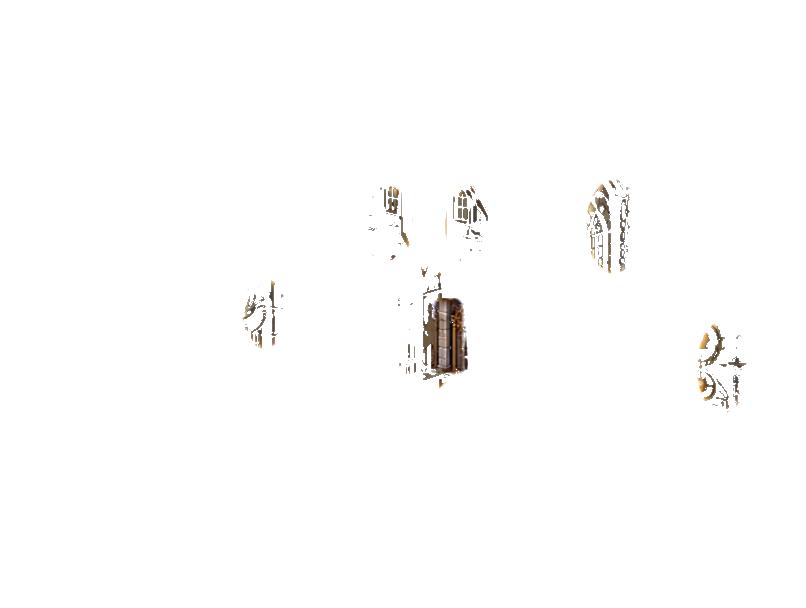
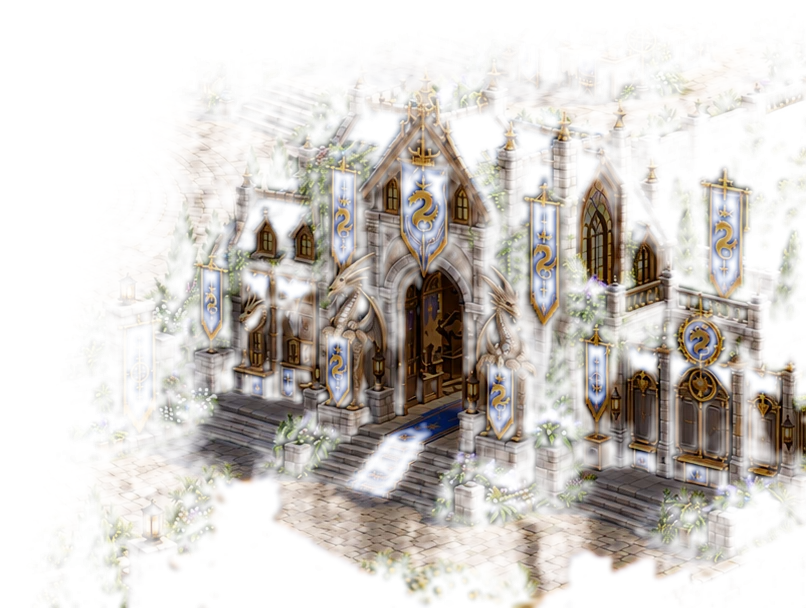
hotfix(refuge): rollback corrupted vacancy art and disable day/auto (v0.0.140)
* revert(town): restore all eight untouched pre-v0.0.139 vacancy files

* hotfix(town): force night-only, ignore saved day mode, retain v0.0.138 art (0.0.140)

diff --git a/src/Wyrmforge.Presentation.Web/wwwroot/index.html b/src/Wyrmforge.Presentation.Web/wwwroot/index.html
@@ -30,7 +30,6 @@
     <script src="js/audio.js?v=__WYRMFORGE_BUILD__"></script>
     <script src="js/arcane-web.js"></script>
     <script src="js/refuge-town.js?v=__WYRMFORGE_BUILD__"></script>
-    <script src="js/town-lighting.js?v=__WYRMFORGE_BUILD__"></script>
     <script src="js/playtest.js?v=__WYRMFORGE_BUILD__"></script>
     <script src="_framework/blazor.webassembly.js?v=__WYRMFORGE_BUILD__" autostart="false"></script>
     <script>

diff --git a/tests/Wyrmforge.Browser.Tests/WyrmforgeBrowserTests.cs b/tests/Wyrmforge.Browser.Tests/WyrmforgeBrowserTests.cs
@@ -12,49 +12,28 @@ public sealed class WyrmforgeBrowserTests : PageTest
     private string ArtifactDirectory => Environment.GetEnvironmentVariable("WYRMFORGE_BROWSER_ARTIFACTS") ?? Path.Combine(Path.GetTempPath(), "wyrmforge-browser");
 
     [TestMethod]
-    public async Task TownLighting_SettingsOverrideChangesSceneWithoutAffectingBuildingStates()
+    public async Task Refuge_NightOnly_IgnoresPriorDayPreferenceAndPreservesBuildingStates()
     {
         await Page.SetViewportSizeAsync(390, 844);
+        await Page.AddInitScriptAsync("localStorage.setItem('wyrmforge.townLighting.v1', 'day');");
         await OpenAsync();
-        await Expect(Page.Locator(".refuge-canonical-scene")).ToBeVisibleAsync();
-        var initialStates = await Page.Locator(".refuge-town-spot[data-town-building]").EvaluateAllAsync<string>(
-            "buttons => [...buttons].map(button => button.dataset.townState).join(',')");
-
-        await Page.GetByRole(AriaRole.Button, new() { Name = "More options" }).ClickAsync();
-        var controls = Page.GetByRole(AriaRole.Group, new() { Name = "Town lighting preference" });
-        await Expect(controls).ToBeVisibleAsync();
-        await controls.GetByRole(AriaRole.Button, new() { Name = "Day", Exact = true }).ClickAsync();
-        await Expect(controls.GetByRole(AriaRole.Button, new() { Name = "Day", Exact = true }))
-            .ToHaveAttributeAsync("aria-pressed", "true");
-        await Page.GetByRole(AriaRole.Button, new() { Name = "Back to main menu" }).ClickAsync();
+        var scene = Page.Locator(".refuge-canonical-scene");
+        await Expect(scene).ToBeVisibleAsync();
+        var night = scene.Locator(".refuge-town-night-base");
         await Page.WaitForFunctionAsync(@"async () => {
-            const scene = document.querySelector('.refuge-canonical-scene');
-            const image = scene?.querySelector('.refuge-town-night-base');
-            if (scene?.dataset.townTime !== 'day' || !image?.src.includes('/day-active.webp')) return false;
+            const image = document.querySelector('.refuge-town-night-base');
+            if (!image || !image.src.includes('/night-active.webp')) return false;
             await image.decode();
             return image.naturalWidth === 1672 && image.naturalHeight === 941;
         }");
-        Assert.AreEqual(initialStates, await Page.Locator(".refuge-town-spot[data-town-building]").EvaluateAllAsync<string>(
+        var states = await Page.Locator(".refuge-town-spot[data-town-building]").EvaluateAllAsync<string>(
+            "buttons => [...buttons].map(button => button.dataset.townState).join(',')");
+        await Page.GetByRole(AriaRole.Button, new() { Name = "More options" }).ClickAsync();
+        await Expect(Page.GetByRole(AriaRole.Group, new() { Name = "Town lighting preference" })).ToHaveCountAsync(0);
+        await Page.GetByRole(AriaRole.Button, new() { Name = "Back to main menu" }).ClickAsync();
+        await Expect(night).ToHaveAttributeAsync("src", new System.Text.RegularExpressions.Regex("night-active[.]webp"));
+        Assert.AreEqual(states, await Page.Locator(".refuge-town-spot[data-town-building]").EvaluateAllAsync<string>(
             "buttons => [...buttons].map(button => button.dataset.townState).join(',')"));
-
-        await Page.GetByRole(AriaRole.Button, new() { Name = "More options" }).ClickAsync();
-        controls = Page.GetByRole(AriaRole.Group, new() { Name = "Town lighting preference" });
-        await controls.GetByRole(AriaRole.Button, new() { Name = "Night", Exact = true }).ClickAsync();
-        await Page.GetByRole(AriaRole.Button, new() { Name = "Back to main menu" }).ClickAsync();
-        await Page.WaitForFunctionAsync(@"() => {
-            const scene = document.querySelector('.refuge-canonical-scene');
-            return scene?.dataset.townTime === 'night' &&
-                scene.querySelector('.refuge-town-night-base')?.src.includes('/night-active.webp');
-        }");
-
-        await Page.GetByRole(AriaRole.Button, new() { Name = "More options" }).ClickAsync();
-        controls = Page.GetByRole(AriaRole.Group, new() { Name = "Town lighting preference" });
-        await controls.GetByRole(AriaRole.Button, new() { Name = "Auto", Exact = true }).ClickAsync();
-        await Page.GetByRole(AriaRole.Button, new() { Name = "Back to main menu" }).ClickAsync();
-        await Page.WaitForFunctionAsync(@"() => {
-            const scene = document.querySelector('.refuge-canonical-scene');
-            return scene?.dataset.townTime === window.wyrmforgeTownLighting.getState().effective;
-        }");
     }
 
     [TestMethod]

diff --git a/README.md b/README.md
@@ -1,5 +1,13 @@
 # Wyrmforge
 
+## Hotfix 0.0.140 — Night-only Refuge, rollback of damaged v0.0.139 images
+
+- Reverted all eight v0.0.139 daytime and nighttime vacancy image changes **byte-for-byte** to the previous v0.0.138 artwork. No new generation, image processing, or redesign.
+- Temporarily removed the Day/Auto/Night preference controls; the town always uses the original night panorama and original nighttime vacancy layers, regardless of local browser clock or saved choice. Daytime assets remain in the repo but cannot load in the live town.
+- Gameplay unlock conditions, hit targets, the World Gate, NPC plans, and the eight approved canonical building source images are unchanged.
+- Further visual repairs require explicitly approved per-building artwork, one at a time. This hotfix intentionally does not claim to improve the old art.
+
+
 ## Prototype 0.0.139 — Repair vacant Refuge artwork
 
 - Replace independently regenerated vacancy patches with pixel-registered corrections of the current day/night panorama. Each locked building retains its exact geometry and working interaction while its powered fixtures are dimmed, chimney plumes are removed, and the Hall entrance is repaired from same-scene wood.
